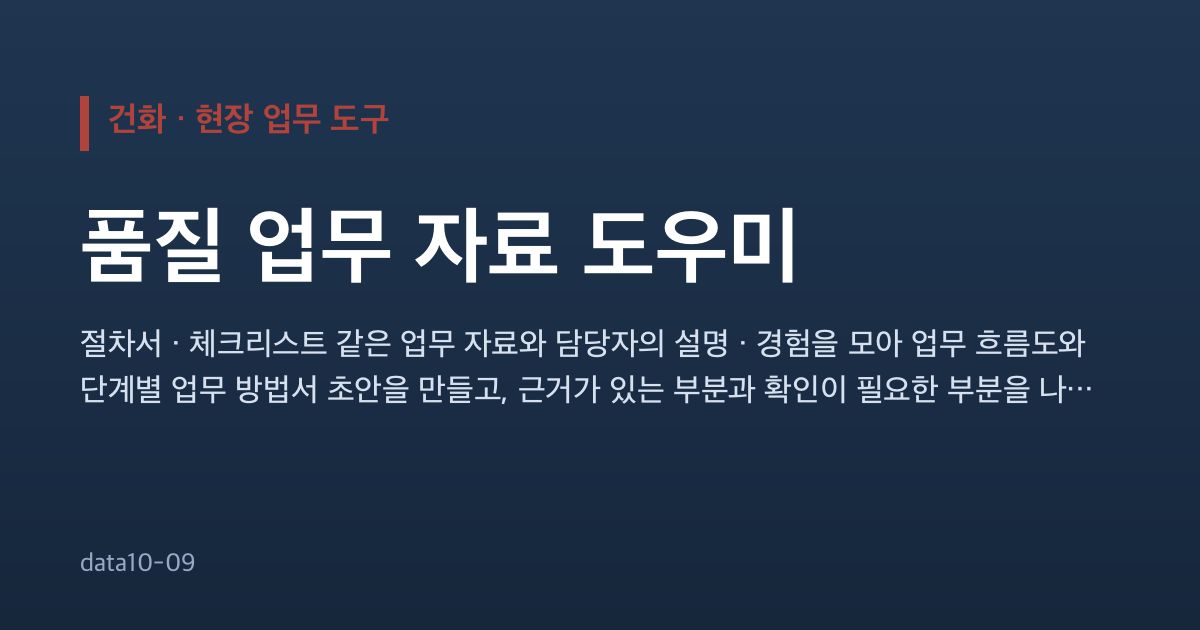
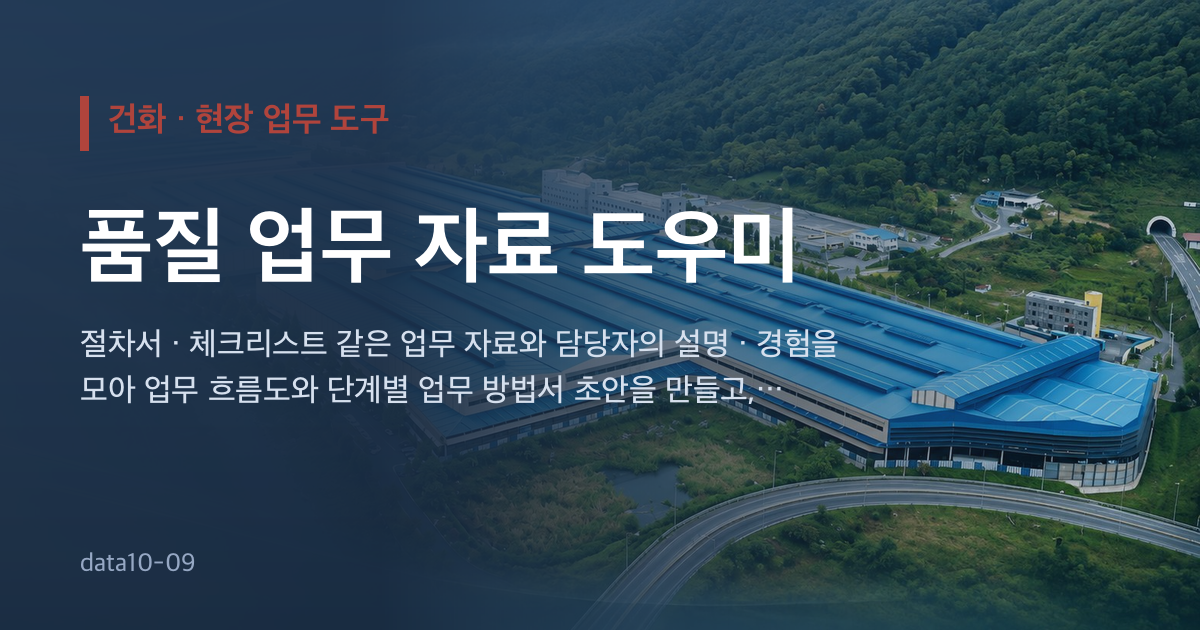
개발 자료 전체 공개 — 개발일지 · 기획서 원문 · 시험 · SQL · 스크립트 · README (수강생 내려받기용)

diff --git a/index.html b/index.html
@@ -12,9 +12,16 @@
   <meta property="og:description" content="절차서 · 체크리스트 같은 업무 자료와 담당자의 설명 · 경험을 모아 업무 흐름도와 단계별 업무 방법서 초안을 만들고, 근거가 있는 부분과 확인이 필요한 부분을 나눠 보여 주는 도구입니다.">
   <meta property="og:url" content="https://data10-09.jobability.co.kr/">
   <meta property="og:image" content="https://data10-09.jobability.co.kr/og-image.png">
+  <meta property="og:image:secure_url" content="https://data10-09.jobability.co.kr/og-image.png">
+  <meta property="og:image:type" content="image/png">
   <meta property="og:image:width" content="1200">
   <meta property="og:image:height" content="630">
+  <meta property="og:image:alt" content="건화 · 품질 업무 자료 도우미">
+  <meta property="og:locale" content="ko_KR">
   <meta name="twitter:card" content="summary_large_image">
+  <meta name="twitter:title" content="건화 · 품질 업무 자료 도우미">
+  <meta name="twitter:description" content="절차서 · 체크리스트 같은 업무 자료와 담당자의 설명 · 경험을 모아 업무 흐름도와 단계별 업무 방법서 초안을 만들고, 근거가 있는 부분과 확인이 필요한 부분을 나눠 보여 주는 도구입니다.">
+  <meta name="twitter:image" content="https://data10-09.jobability.co.kr/og-image.png">
   <!-- /seo-kit -->
   <meta name="description" content="품질보증팀의 업무 자료와 담당자 경험(암묵지)을 모아, AI 로 업무 프로세스 흐름도와 단계별 업무 방법서 초안을 만드는 브라우저 도구 — 근거 표시 · 담당자 확인 · 인수인계 체크리스트 · 신입 교육 자료">
   <meta name="robots" content="noindex">
@@ -30,11 +37,11 @@
        탭 전환·포커스로는 옮기지 않는다(입력 유실). ETag 는 Cloudflare 가 지워서 쓸 수 없다. 원본: dreamit-1000/scripts/fresh-guard/guard.html
        data10-09: file:// 로 열면(사내 PC 에서 index.html 더블클릭) 아무것도 하지 않는다 — file 주소는 fetch 를 못 해 콘솔 오류만 남기 때문(2026-10-28, data10-07 과 같음). -->
   <script>(function(){try{var L=location,P='_fg',h=window.history,q=L.search;if(L.protocol==='file:')return;if(/[?&]_fg=/.test(q)&&h&&h.replaceState){q=q.replace(/([?&])_fg=[^&]*&?/,'$1').replace(/[?&]$/,'');h.replaceState(h.state,'',L.pathname+q+L.hash);}var d=Date.parse(document.lastModified),u=L.pathname+L.search,k='__fresh_guard',t=0;if(!d||!window.fetch||!window.sessionStorage)return;var g=function(s,v){return s+(s.indexOf('?')<0?'?':'&')+P+'='+v;};var c=function(){var n=Date.now();if(n-t<15000)return;t=n;fetch(g(u,n),{method:'HEAD',cache:'no-store'}).then(function(r){var lm=r.headers.get('last-modified'),f=lm&&Date.parse(lm);if(!f||f<=d+1000)return;if(sessionStorage.getItem(k)===lm)return;sessionStorage.setItem(k,lm);L.replace(g(L.pathname+L.search,f)+L.hash);})['catch'](function(){});};c();var p=h&&h.pushState;if(p)h.pushState=function(){var x=p.apply(this,arguments);c();return x;};addEventListener('hashchange',c);addEventListener('popstate',c);}catch(e){}})();</script>
-  <link rel="stylesheet" href="css/style.css?v=2026-11-11.7">
+  <link rel="stylesheet" href="css/style.css?v=2026-11-11.8">
   <!-- auth-kit: 로그인 전에는 도구 화면을 감춘다(js/auth.js 가 판정 뒤 푼다) -->
   <script>document.documentElement.classList.add('auth-lock')</script>
-  <link rel="stylesheet" href="css/auth.css?v=2026-11-11.7">
-  <link rel="stylesheet" href="css/board.css?v=2026-11-11.7">
+  <link rel="stylesheet" href="css/auth.css?v=2026-11-11.8">
+  <link rel="stylesheet" href="css/board.css?v=2026-11-11.8">
   <!-- /auth-kit -->
 </head>
 <body>
@@ -67,20 +74,20 @@
   <div id="toast" class="toast" role="status" aria-live="polite" hidden></div>
 
   <!-- 로컬 파일(file://)로 열어도 돌도록 module 이 아닌 일반 스크립트로 불러옵니다 -->
-  <script src="vendor/xlsx.full.min.js?v=2026-11-11.7"></script>
-  <script src="js/logic.js?v=2026-11-11.7"></script>
-  <script src="js/capture.js?v=2026-11-11.7"></script>
-  <script src="js/sample-data.js?v=2026-11-11.7"></script>
-  <script src="js/sample-capture.js?v=2026-11-11.7"></script>
-  <script src="js/store.js?v=2026-11-11.7"></script>
-  <script src="js/ai-endpoint.js?v=2026-11-11.7"></script>
-  <script src="js/ai-panel.js?v=2026-11-11.7"></script>
-  <script src="js/app.js?v=2026-11-11.7"></script>
+  <script src="vendor/xlsx.full.min.js?v=2026-11-11.8"></script>
+  <script src="js/logic.js?v=2026-11-11.8"></script>
+  <script src="js/capture.js?v=2026-11-11.8"></script>
+  <script src="js/sample-data.js?v=2026-11-11.8"></script>
+  <script src="js/sample-capture.js?v=2026-11-11.8"></script>
+  <script src="js/store.js?v=2026-11-11.8"></script>
+  <script src="js/ai-endpoint.js?v=2026-11-11.8"></script>
+  <script src="js/ai-panel.js?v=2026-11-11.8"></script>
+  <script src="js/app.js?v=2026-11-11.8"></script>
   <!-- auth-kit: 로그인 · 사용 신청 · 승인(정본 data10-00/kit/auth) -->
-  <script src="vendor/supabase.js?v=2026-11-11.7"></script>
-  <script src="js/auth-config.js?v=2026-11-11.7"></script>
-  <script src="js/board.js?v=2026-11-11.7"></script>
-  <script src="js/auth.js?v=2026-11-11.7"></script>
+  <script src="vendor/supabase.js?v=2026-11-11.8"></script>
+  <script src="js/auth-config.js?v=2026-11-11.8"></script>
+  <script src="js/board.js?v=2026-11-11.8"></script>
+  <script src="js/auth.js?v=2026-11-11.8"></script>
   <!-- /auth-kit -->
 </body>
 </html>

diff --git a/js/auth.js b/js/auth.js
@@ -233,6 +233,12 @@
       box.classList.toggle('hp-sl-light', !!(sl[i] && sl[i].tone === 'light'));   // 밝은 사진이면 글자를 어둡게
     }
     go(0);
+    // slides[].anim(움직이는 그림 gif) — 먼저 가벼운 사진을 보이고, 화면이 뜬 뒤 받아서 바꿔 끼운다(데이터 절약 · 모션 최소화면 건너뜀)
+    var conn = navigator.connection || {};
+    if (!reduce && !conn.saveData) sl.forEach(function (x, k) {
+      if (!x.anim || !track.children[k]) return;
+      setTimeout(function () { var im = new Image(); im.onload = function () { if (document.body.contains(track)) track.children[k].style.backgroundImage = 'url("' + absUrl(x.anim) + '")'; }; im.src = absUrl(x.anim); }, 1500);
+    });
     box.querySelectorAll('[data-sl]').forEach(function (b) {
       b.onclick = function () {
         var v = b.getAttribute('data-sl');

diff --git a/js/app.js b/js/app.js
@@ -6,7 +6,7 @@
   var L = window.QWLogic, S = window.QWStore, AIP = window.AIPanel, CQ = window.QWCapture;
   /* 판 맞추기 — 브라우저가 옛 logic.js 와 새 app.js 를 섞어 쓰면(Pages 캐시) 버튼과 결과가 어긋날 수 있어, 섞였으면 계산하지 않고 새로고침을 안내합니다.
      판은 scripts/bump-version.mjs 로 index.html(?v=) · logic.js 와 함께 올립니다. */
-  var APP_VERSION = '2026-11-11.7';
+  var APP_VERSION = '2026-11-11.8';
   if (!L || L.VERSION !== APP_VERSION || !CQ || CQ.VERSION !== APP_VERSION) {
     var m0 = document.getElementById('main') || document.body;
     m0.innerHTML = '<section class="card" id="versionMismatch"><h1>새 판이 나왔습니다 — 새로고침(Ctrl+F5)해 주세요</h1><p class="alert warn">이 브라우저가 옛 파일과 새 파일을 섞어 불러왔습니다(js/logic.js ' +

diff --git a/js/logic.js b/js/logic.js
@@ -15,7 +15,7 @@
   'use strict';
   /* 판(版) — index.html 의 ?v= · app.js 의 APP_VERSION 과 같아야 합니다(scripts/bump-version.mjs 로 함께 올림).
      브라우저가 옛 logic.js 와 새 app.js 를 섞어 쓰면 app.js 가 이 값을 보고 계산을 멈춥니다. */
-  var VERSION = '2026-11-11.7';
+  var VERSION = '2026-11-11.8';
 
   var SCHEMA_VERSION = 1;
 

diff --git a/js/capture.js b/js/capture.js
@@ -15,7 +15,7 @@
 })(typeof self !== 'undefined' ? self : this, function (L) {
   'use strict';
   /* 판 — logic.js · app.js 와 같아야 합니다(scripts/bump-version.mjs 가 함께 올림) */
-  var VERSION = '2026-11-11.7';
+  var VERSION = '2026-11-11.8';
   var SCHEMA = 2;
 
   function str(v) { return v == null ? '' : String(v).trim(); }

diff --git a/js/auth-config.js b/js/auth-config.js
@@ -205,7 +205,8 @@ window.AUTH_CONFIG = {
       "slides": [
         {
           "image": "images/slide-1.jpg",
-          "tone": "light"
+          "tone": "light",
+          "anim": "images/slide-1.gif"
         },
         {
           "image": "images/slide-2.jpg",

diff --git a/docs/평가보고서/data10-09_평가보고서_2026-11-11.md b/docs/평가보고서/data10-09_평가보고서_2026-11-11.md
@@ -2,7 +2,7 @@
 
 - 과제: 품질 업무 자료 도우미
 - 요청자: 신나희
-- 점검일: 2026-11-11 (라이브 점검 판 2026-11-11.6, 이 보고서와 함께 올리는 판 2026-11-11.7)
+- 점검일: 2026-11-11 (라이브 점검 판 2026-11-11.6, 이 보고서와 함께 올리는 판 2026-11-11.8)
 - 사이트: https://data10-09.jobability.co.kr/
 - 리포지토리: https://github.com/jungaistar/data10-09
 
@@ -34,7 +34,7 @@
 | 첫 화면 구성 | 충족 | 모양 사진 슬라이드 3장 · 기능 6 · 사용 순서 6 · 실제 화면 있음 |
 | 회사 로고(그림) | 충족 | 머리글 로고 그림 |
 | 기획서 페이지 · 실제 화면 그림 | 충족 | plan.html 200 · screen.png 200 |
-| 공유 미리보기 메타 · 아이콘 | 조치함 | 점검 때 og 메타 · 아이콘이 없어 판 2026-11-11.7 에서 넣음 |
+| 공유 미리보기 메타 · 아이콘 | 조치함 | 점검 때 og 메타 · 아이콘이 없어 넣음 — og:title · description · url · image(1200×630, 첫 화면 사진 바탕) · canonical |
 
 ## 3. 기능과 시험
 
@@ -63,7 +63,7 @@
 | Supabase 설정 파일 | 충족 | auth.sql · board.sql · site.sql · verify.sql |
 | Supabase 연결 안내 | 충족 | supabase/README.md (11단계 · 기대하는 값 · 자주 나는 문제) |
 | 내 깃허브로 옮기기 안내 | 충족 | docs/내_깃허브로_옮기기.md |
-| 기획서(워드) · 개발일지 · 변경 이력 | 충족 | 변경 이력 9건 · 커밋 16개 |
+| 기획서(워드) · 개발일지 · 변경 이력 | 충족 | 변경 이력 10건 · 커밋 17개 |
 | 공개 리포지토리(ZIP 내려받기) | 충족 | github.com/jungaistar/data10-09 |
 | 게시판 · 새 글 알림 · 첫 화면 고르기 | 충족 | 과정용 프로젝트에 SQL 적용 완료(표 · 정책 수 확인) |
 
@@ -74,13 +74,14 @@
 | 항목 | 결과 | 근거 |
 |---|---|---|
 | 내 깃허브에 배포 | 충족 | https://nahee2006.github.io/data-app/ , https://nahee2006.github.io/quality-work-ai/ |
-| 최신 판으로 배포 | 미충족 | 배포된 판 2026-11-11.1 (최종 2026-11-11.7) |
+| 최신 판으로 배포 | 미충족 | 배포된 판 2026-11-11.1 (최종 2026-11-11.8) |
 | 게시판 포함 판 | 미충족 | 게시판이 들어가기 전 판 |
 | 내 Supabase 로 연결 | 미충족 | 아직 과정용 프로젝트 주소 그대로 |
 | 비밀 키 노출 없음 | 충족 | 설정 파일에 service_role · secret 키 없음 |
 
 ## 6. 변경 이력
 
+- 2026-11-11 점검 · 평가보고서 (판 2026-11-11.7)
 - 2026-11-11 요청 반영 (판 2026-11-11.6)
 - 2026-11-11 슬라이드 사진 (판 2026-11-11.5)
 - 2026-11-11 첫 화면 모양 고르기 (판 2026-11-11.3)

diff --git a/CHANGELOG.md b/CHANGELOG.md
@@ -2,6 +2,12 @@
 
 버전마다 기획서 워드 판을 `docs/기획서/` 에 남긴다(옛 판을 지우지 않는다).
 
+## 2026-11-11 최종 (판 2026-11-11.8)
+
+- 첫 화면 첫 장을 11-11 받은 움직이는 그림으로(가벼운 사진을 먼저 보이고 뒤에 바꿔 끼움)
+- 공유 미리보기 그림(og-image.png)을 첫 화면 사진 바탕으로, og · twitter 메타 보강
+- 평가보고서 갱신 `docs/평가보고서/`
+
 ## 2026-11-11 점검 · 평가보고서 (판 2026-11-11.7)
 
 - 16개 사이트 점검 결과와 평가보고서 `docs/평가보고서/`(md · docx)
